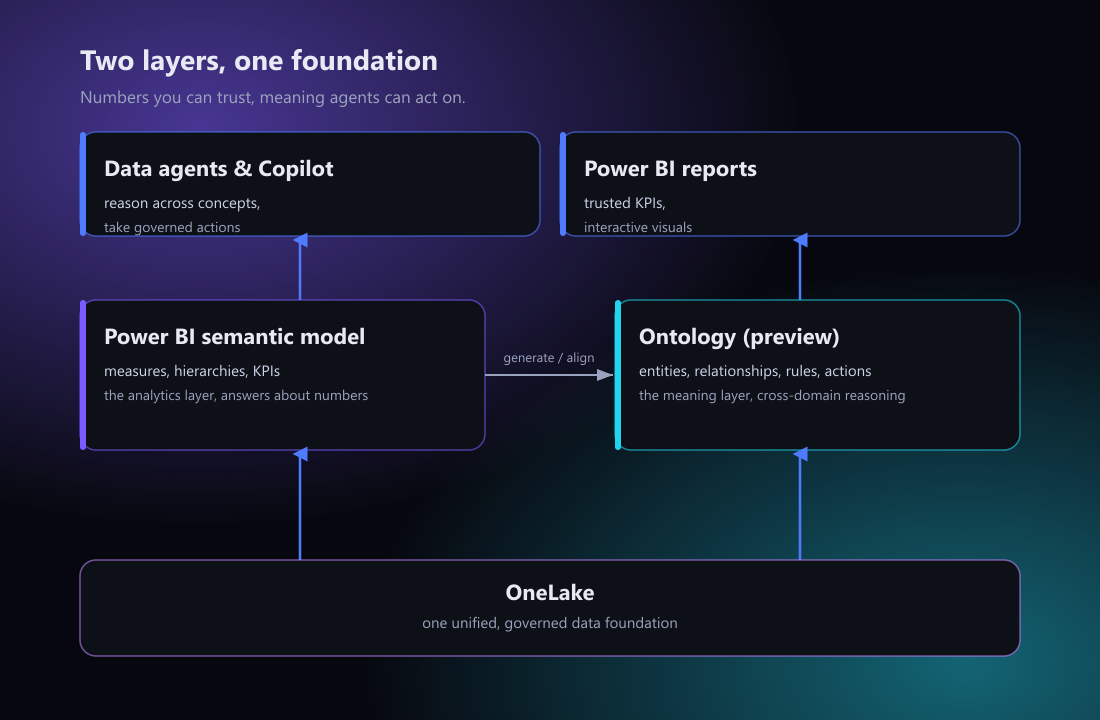
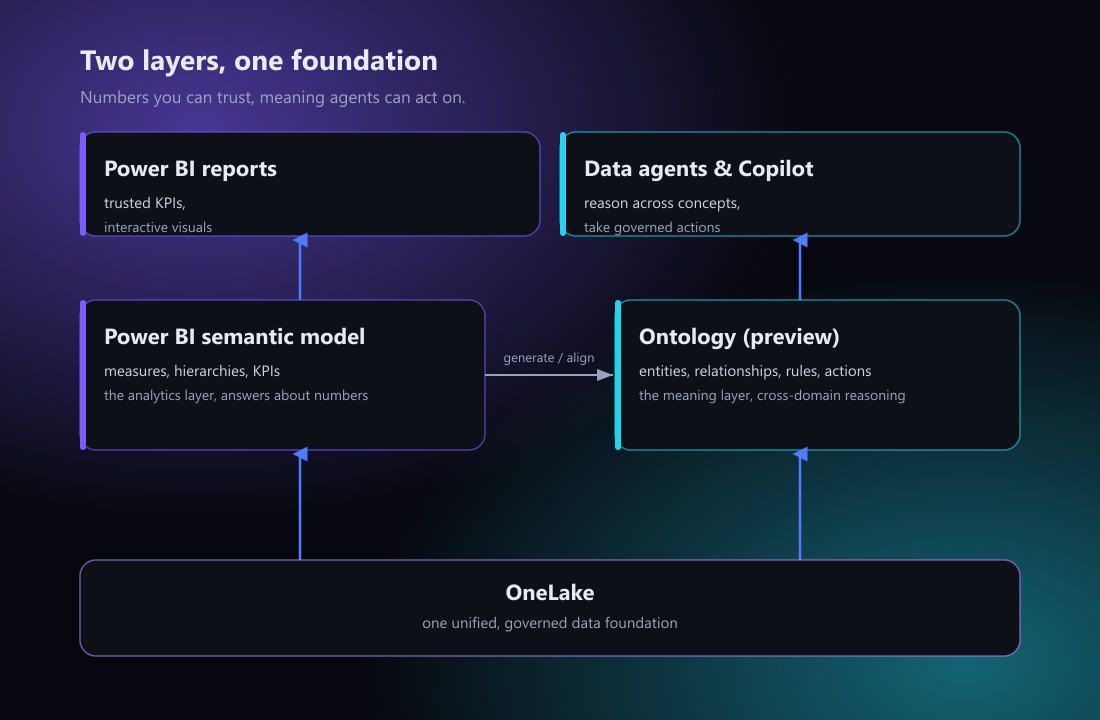
Finalize ontology post: new cover, cleaned diagram, SEO description and internal links

Changed region(s): [[0.4945, 0.1833, 0.7418, 0.3361], [0.0618, 0.1833, 0.3091, 0.3361]]

diff --git a/src/content/blog/ontologies-vs-semantic-models-what-they-mean-for-data-agents-and-power-bi.md b/src/content/blog/ontologies-vs-semantic-models-what-they-mean-for-data-agents-and-power-bi.md
@@ -1,6 +1,6 @@
 ---
 title: "Ontologies vs Semantic Models: What They Mean for Data Agents and Power BI"
-description: "An ontology and a Power BI semantic model are not the same thing, and not rivals. Here is what each one does, and why the pairing is what makes data agents trustworthy."
+description: "An ontology and a Power BI semantic model are not the same thing. Here is what each does, when to use which, and why the pairing makes data agents trustworthy."
 pubDate: 2026-07-09
 category: "Data & AI"
 tags: ["Data & AI", "Fabric", "PowerBI", "Agents"]
@@ -12,9 +12,9 @@ draft: false
 
 ## Two words that are quietly confusing every data team
 
-For a decade, the semantic model was the trusted heart of a Power BI solution. Then Microsoft introduced ontologies as part of Fabric IQ, and a lot of data teams started asking the same question: is an ontology just a new name for a semantic model, is it a replacement, and what does it mean for the reports and data agents we are already building?
+For a decade, the semantic model was the trusted heart of a Power BI solution. Then Microsoft introduced ontologies as part of [Fabric IQ](/blog/fabric-iq-fabric-data-agents-azure-ai-foundry-and-mcp-how-they-work-together), and a lot of data teams started asking the same question: is an ontology just a new name for a semantic model, is it a replacement, and what does it mean for the reports and data agents we are already building?
 
-The short answer is that they are different things doing different jobs, and the best way to understand either one is to understand the other. Ontology in Fabric IQ is currently in preview, but the concept is worth getting right now, because it changes how you think about agent-ready data.
+The short answer is that they are different things doing different jobs, and the best way to understand either one is to understand the other. Ontology in Fabric IQ is currently in preview, but the concept is worth getting right now, because it changes how you think about [agent-ready data](/blog/agent-ready-data-why-dashboard-ready-data-is-no-longer-enough).
 
 ## What a semantic model actually does
 
@@ -91,7 +91,7 @@ If you are not sure, start with the semantic model you already trust, then add a
 
 ## What it means for Power BI
 
-If you have invested years in Power BI semantic models, none of this makes that work obsolete. The opposite is true. Power BI stays the analytics and reporting layer, the place business users get trusted KPIs and interactive visuals. The semantic model becomes the trusted foundation an ontology is generated from and aligned to. The modeling discipline you already have, clean measures and well-defined relationships, is exactly what makes an ontology and the agents on top of it reliable. Good semantic modeling was always the real product. Now it is also the on-ramp to agent-ready data.
+If you have invested years in Power BI semantic models, none of this makes that work obsolete. The opposite is true. Power BI stays the analytics and reporting layer, the place business users get trusted KPIs and interactive visuals. The semantic model becomes the trusted foundation an ontology is generated from and aligned to. The [modeling discipline you already have](/blog/the-foundation-beneath-every-power-bi-report), clean measures and well-defined relationships, is exactly what makes an ontology and the agents on top of it reliable. Good semantic modeling was always the real product. Now it is also the on-ramp to agent-ready data.
 
 ## Where this is heading
 
